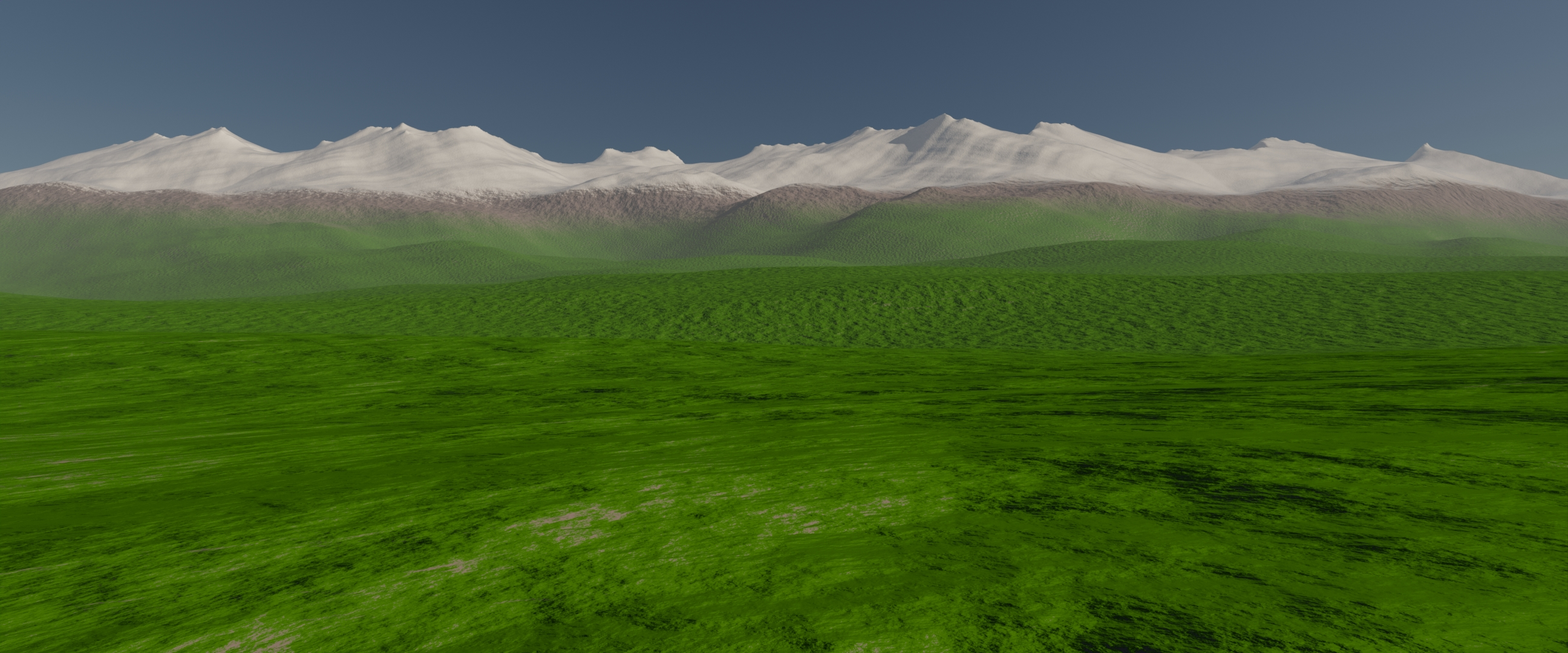
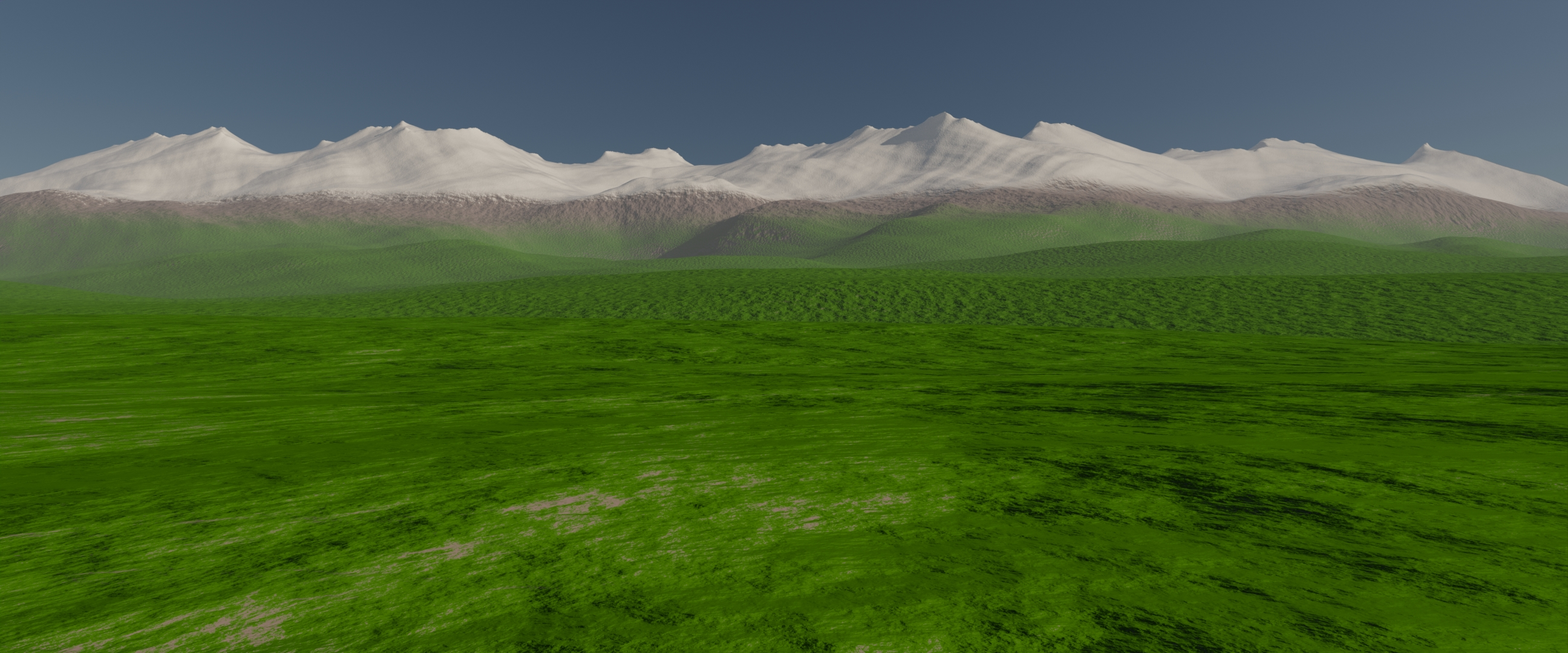
Introduce parameter for transition width

diff --git a/bin/generate_bumps.cpp b/bin/generate_bumps.cpp
@@ -44,6 +44,7 @@ struct main_ridge_params
 struct uplift_zone
 {
 	float radius;
+	float transition_width;
 };
 
 struct steady_plate_collision_zone_descriptor
@@ -117,7 +118,8 @@ int main()
 			}
 		},
 		.uplift_zone{
-			.radius = 16384.0f
+			.radius = 12384.0f,
+			.transition_width = 5120.0f
 		},
 		.bump_field{
 			.impact_waves{
@@ -231,8 +233,10 @@ int main()
 					return distance_xy(current_loc, a) < distance_xy(current_loc, b);
 				});
 
+				auto const transition_width = heightmap_params.uplift_zone.transition_width;
 				uplift_zone_boundary(x, y) = dirichlet_boundary_pixel{
-					.weight = smoothstep((distance_xy(*i, current_loc) - heightmap_params.uplift_zone.radius)/5120.0f),
+					.weight = smoothstep((distance_xy(*i, current_loc)
+						- (heightmap_params.uplift_zone.radius + 0.5f*transition_width))/transition_width),
 					.value = 0.0f
 				};
 			}
